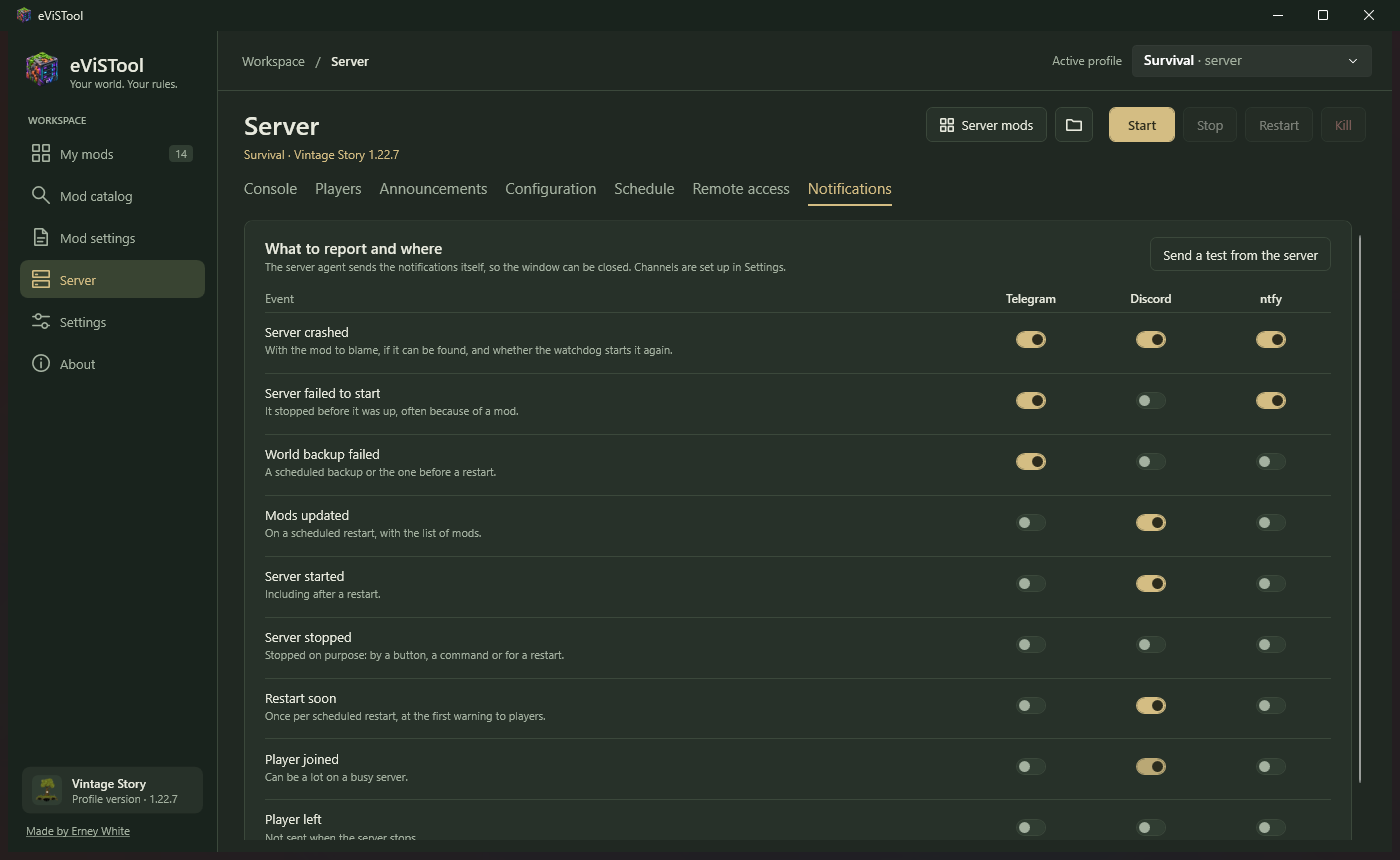
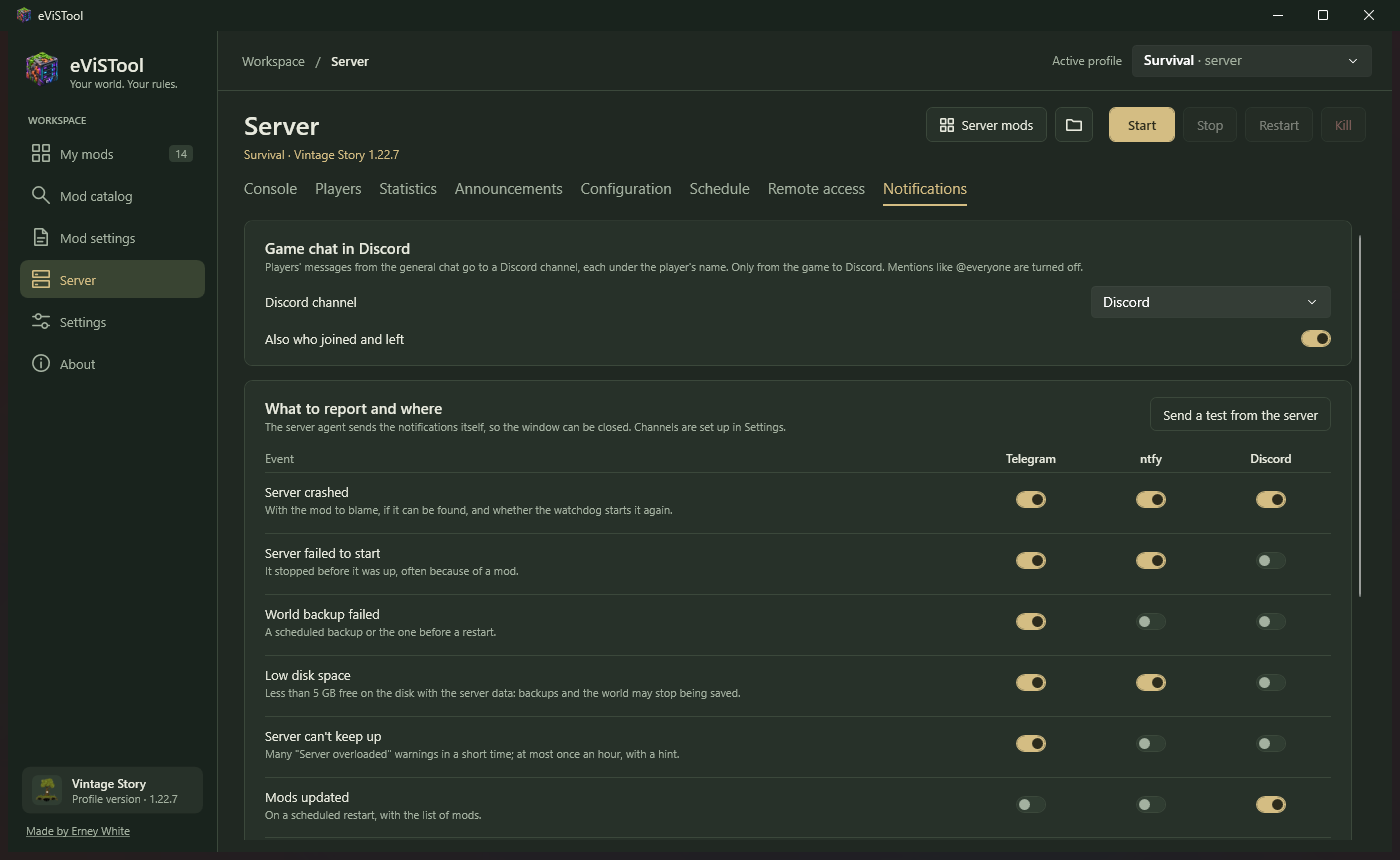
README: чат игры в Discord, новые оповещения, папка для копий, статистика; новые снимки «Статистика», «Оповещения», «Расписание»

diff --git a/README.ru.md b/README.ru.md
@@ -24,7 +24,8 @@
 ![Мои моды](docs/screenshots/mods.png)
 
 eViSTool держит моды Vintage Story в актуальном состоянии, показывает каталог модбазы с установкой в один клик
-и управляет выделенным сервером — консоль, игроки, конфигурация, резервные копии, перезапуски по расписанию — из одного окна.
+и управляет выделенным сервером из одного окна: консоль, игроки, конфигурация, резервные копии, перезапуски по расписанию,
+оповещения и статистика.
 Сервером на другом компьютере можно управлять так же — по одной строке, коду подключения.
 
 Программа портативная: распаковал в любую папку и запустил. В систему ничего не ставится — ни служб, ни автозапуска.
@@ -268,6 +269,11 @@ eViSTool считает их за каждый запуск игры или се
   так что восстановление можно откатить.
   Данные, которые моды хранят рядом с миром, а не в нём (например, `Saves/XLeveling` с прогрессом навыков
   и папка `ModData`), упаковываются в каждую копию и восстанавливаются вместе с миром.
+  Копии можно складывать в другую папку, в том числе сетевую (`\\nas\share`): строка **«Папка для копий»**, кнопка
+  **«Обзор…»** или путь вручную. Сервер по-прежнему пишет копию к себе в `Backups`, а агент переносит её в выбранную папку.
+  Если папка недоступна, копия остаётся на сервере, приходит оповещение, и в следующий раз она переедет вместе с новой.
+  Список, удаление старых копий и восстановление видят обе папки. Сетевую папку агент открывает от имени пользователя Windows,
+  под которым он запущен; можно ли туда писать, проверяется сразу, когда ты её выбираешь.
 - **Перезапуски по расписанию** каждые N часов работы или в заданное время суток, с предупреждениями в чат
   (за 10 и за 5 минут, дальше каждую минуту) и, если нужно, свежей копией мира прямо перед перезапуском.
   Если включить **«Обновлять моды при перезапуске»**, агент, пока сервер остановлен, поставит вышедшие обновления модов.
@@ -288,6 +294,15 @@ eViSTool считает их за каждый запуск игры или се
 найти игрока по имени умеет лишь сервер. С версии 1.20 выделенный сервер по умолчанию пускает только по белому списку,
 так что друзей, скорее всего, придётся туда добавить.
 
+**Статистика.** Включается тумблером **«Собирать статистику»**, по умолчанию выключена. Раз в минуту агент записывает,
+сколько игроков в игре и сколько памяти и процессора занимает сервер, а ещё входы и выходы, запуски и вылеты.
+Хранится 30 дней на компьютере с сервером, это около мегабайта в месяц. Вкладка показывает итоги за сутки, неделю или
+30 дней: сколько наиграли все вместе, пик онлайна, сколько времени работал сервер, вылеты. Ниже графики онлайна
+и нагрузки (наведи мышь, и увидишь точные значения) и таблица игроков: кто сколько наиграл, сколько раз заходил
+и когда был последний раз.
+
+![Статистика](docs/screenshots/stats.png)
+
 **Объявления.** Сообщения в чат по расписанию: правила сервера, ссылка на Discord, время перезапуска. У каждого свой
 интервал в минутах и тумблер. Отправляет агент, так что окно можно закрыть. По умолчанию пустой сервер молчит, а игрок,
 который зашёл, не получит пачку накопившихся сообщений. Есть и **«Сказать сейчас»** — разовое объявление всем на сервере.
@@ -295,10 +310,15 @@ eViSTool считает их за каждый запуск игры или се
 ![Объявления](docs/screenshots/announcements.png)
 
 **Оповещения.** Сервер сам сообщает о событиях туда, куда ты скажешь: упал (с модом-виновником, если его удалось найти,
-и тем, поднимет ли его сторож), не запустился, копия мира не получилась, обновлены моды, запущен или остановлен,
-скоро перезапуск, игрок зашёл или вышел. Каналы настраиваются один раз в **«Настройках» → «Оповещения» → «Добавить канал»**,
+и тем, поднимет ли его сторож), не запустился, копия мира не получилась, обновлены моды, вышли обновления модов,
+мало места на диске, сервер не успевает, запущен или остановлен, скоро перезапуск, игрок зашёл или вышел. Каналы настраиваются один раз в **«Настройках» → «Оповещения» → «Добавить канал»**,
 а на вкладке сервера включаются тумблерами: строки — события, столбцы — каналы. Отправляет агент, окно можно закрыть.
 **«Проверочное с сервера»** уходит тем же путём, что и настоящие оповещения.
+
+Про три события подробнее. Обновления модов агент проверяет раз в сутки и присылает список; один и тот же список
+повторно не приходит. «Мало места» срабатывает, когда на диске с данными сервера остаётся меньше 5 ГБ. «Сервер
+не успевает» значит, что сервер много раз за 10 минут написал `Server overloaded`; в оповещении будет подсказка,
+хватает ли компьютеру памяти.
 
 ![Оповещения](docs/screenshots/notify.png)
 
@@ -320,12 +340,17 @@ eViSTool считает их за каждый запуск игры или се
 Сообщение собрано из частей: цвет по важности (кружок в Telegram, полоса в Discord, приоритет в ntfy), сервер,
 событие и подробности. Пишутся они на языке eViSTool того компьютера, где работает сервер.
 
+**Чат игры в Discord.** Там же, на вкладке «Оповещения», можно выбрать канал Discord для чата. Сообщения игроков
+из общего чата уходят туда, каждое под ником игрока, а несколько сообщений подряд от одного игрока приходят одним.
+По желанию туда же пишется, кто зашёл и вышел. Направление одно: из игры в Discord. Упоминания вроде `@everyone`
+из игры никого в Discord не позовут.
+
 **«Моды сервера»** открывает «Мои моды» серверного профиля — та же таблица, каталог и обновления, что и для игры.
 
 ## Удалённое управление
 
 Управляй сервером на другом компьютере — домашнем ПК, старом ноутбуке, арендованной машине — как будто он рядом:
-консоль, запуск и остановка, конфигурация, расписание, резервные копии, игроки, объявления, оповещения и моды сервера. Одна строка — **код подключения** —
+консоль, запуск и остановка, конфигурация, расписание, резервные копии, игроки, статистика, объявления, оповещения и моды сервера. Одна строка — **код подключения** —
 содержит всё нужное: адрес, порт, ключ и сертификат сервера. Настраивать вручную ничего не надо.
 
 ![Удалённый доступ](docs/screenshots/remote.png)
@@ -349,7 +374,7 @@ eViSTool считает их за каждый запуск игры или се
 - На компьютере с сервером должен быть открыт eViSTool или работать сервер: удалённый доступ живёт, пока жив агент.
   Ни службы, ни автозапуска нет.
 - Изменения видны в обоих окнах сами. Выключил мод со своего ПК — через пару секунд он выключен и в окне на компьютере
-  с сервером, и наоборот. С расписанием, конфигурацией, игроками, объявлениями и оповещениями так же.
+  с сервером, и наоборот. С расписанием, конфигурацией, игроками, статистикой, объявлениями и оповещениями так же.
 - Моды ставятся на сервер прямо по соединению: из zip, из каталога, обновлениями и модпаками.
 - Оповещения отправляет агент на компьютере с сервером, поэтому они приходят и при выключенном твоём ПК. Каналы, которые
   ты включил у сервера, передаются ему по защищённому соединению и там шифруются заново; обратно секреты не отдаются.
@@ -393,7 +418,7 @@ eViSTool считает их за каждый запуск игры или се
 eViSTool использует `%LOCALAPPDATA%\eViSTool`.)
 
 **Что eViSTool меняет:** только папки модов, файлы настроек игры и сервера (рядом остаётся копия прежнего состояния `.evistool.bak`),
-резервные копии в папке `Backups` серверных профилей и папки данных профилей, которые создала сама.
+резервные копии в папке `Backups` серверных профилей (или в выбранной папке для копий) и папки данных профилей, которые создала сама.
 Удалённые моды, копии и папки профилей уходят в корзину.
 
 **Чтобы удалить eViSTool,** останови свои серверы, закрой программу и удали её папку.

diff --git a/README.md b/README.md
@@ -24,7 +24,8 @@
 ![My mods](docs/screenshots/mods.png)
 
 eViSTool keeps your Vintage Story mods up to date, lets you browse and install mods from the ModDB,
-and runs your dedicated server — console, players, configuration, backups and scheduled restarts — from one window.
+and runs your dedicated server from one window: console, players, configuration, backups, scheduled restarts,
+notifications and statistics.
 A server on another computer is managed the same way, with a single connection code.
 
 It is portable: unzip it anywhere and run. Nothing is installed into the system — no services, no autostart.
@@ -264,6 +265,11 @@ so changes can be saved only while it is stopped. A copy of the previous file st
   so a restore can be undone.
   Data that mods keep next to the world rather than in it (for example `Saves/XLeveling` with skill progress,
   and the `ModData` folder) is packed with every backup and restored together with the world.
+  Backups can go to another folder, including a network one (`\\nas\share`): the **Backup folder** row, **Browse…**
+  or a typed path. The server still writes the copy into its own `Backups`, and the agent moves it to the chosen folder.
+  If the folder is unreachable, the copy stays on the server, you get a notification, and next time it moves along with
+  the new one. The list, rotation and restore see both folders. The agent opens a network folder as the Windows user
+  it runs as; write access is checked as soon as you pick the folder.
 - **Scheduled restarts** every N hours of uptime or at set times of day, with chat warnings
   (10 and 5 minutes before, then every minute) and, if you like, a fresh backup right before the restart.
   With **Update mods on restart** on, the agent installs released mod updates while the server is stopped.
@@ -284,6 +290,14 @@ On a stopped server eViSTool edits the server files. A new player can be added b
 only the server can look a player up by name. Since 1.20 a dedicated server lets in only whitelisted players by default,
 so you will most likely need to add your friends there.
 
+**Statistics.** Turned on with the **Collect statistics** switch, off by default. Once a minute the agent records how many
+players are online and how much memory and CPU the server uses, plus joins and leaves, starts and crashes. It is kept for
+30 days on the server computer, about a megabyte a month. The tab shows totals for a day, a week or 30 days: time played
+by everyone, peak online, how long the server was running, crashes. Below are charts of online players and server load
+(hover to see exact values) and a players table: how long each played, how many sessions, and when they were last seen.
+
+![Statistics](docs/screenshots/stats.png)
+
 **Announcements.** Chat messages on a schedule: server rules, a Discord link, the restart time. Each has its own interval
 in minutes and a switch. The agent sends them, so the window can be closed. By default an empty server stays quiet, and a player
 who joins does not get a pile of queued messages. There is also **Say now** — a one-off message to everyone on the server.
@@ -291,10 +305,15 @@ who joins does not get a pile of queued messages. There is also **Say now** — 
 ![Announcements](docs/screenshots/announcements.png)
 
 **Notifications.** The server reports events wherever you tell it to: crashed (with the mod to blame, if one is found, and
-whether the watchdog starts it again), failed to start, world backup failed, mods updated, started or stopped, restart soon,
-player joined or left. Channels are set up once in **Settings → Notifications → Add channel**, and on the server tab you turn
+whether the watchdog starts it again), failed to start, world backup failed, mods updated, mod updates available,
+low disk space, server can't keep up, started or stopped, restart soon, player joined or left. Channels are set up once in **Settings → Notifications → Add channel**, and on the server tab you turn
 them on with switches: rows are events, columns are channels. The agent sends them, so the window can be closed.
 **Send a test from the server** goes the same way as the real notifications.
+
+A few events in more detail. The agent checks for mod updates once a day and sends the list; the same list is not sent
+twice. Low disk space fires when less than 5 GB is left on the disk with the server data. Server can't keep up means
+the server wrote `Server overloaded` many times within 10 minutes; the notification says whether the computer is short
+of memory.
 
 ![Notifications](docs/screenshots/notify.png)
 
@@ -315,12 +334,17 @@ Tokens and webhook links are stored encrypted for your Windows account and are n
 a color by importance (a circle in Telegram, a stripe in Discord, priority in ntfy), the server, the event and the details.
 They are written in the language of eViSTool on the computer that runs the server.
 
+**Game chat in Discord.** On the same Notifications tab you can pick a Discord channel for the chat. Players' messages
+from the general chat go there, each under the player's name, and several messages in a row from one player arrive as one.
+Optionally, joins and leaves go there too. It works one way only, from the game to Discord. Mentions like `@everyone`
+typed in the game do not ping anyone in Discord.
+
 **Server mods** opens **My mods** for the server profile — the same table, catalog and updates as for the game.
 
 ## Remote management
 
 Manage a server on another computer — a home PC, a spare laptop, a rented machine — as if it were here:
-console, start and stop, configuration, schedule, backups, players, announcements, notifications and the server's mods. One string, the **connection code**,
+console, start and stop, configuration, schedule, backups, players, statistics, announcements, notifications and the server's mods. One string, the **connection code**,
 carries everything needed: address, port, key and the server's certificate. There is nothing to configure by hand.
 
 ![Remote access](docs/screenshots/remote.png)
@@ -344,7 +368,7 @@ Good to know:
 - The server computer needs eViSTool open, or its server running: remote access lives as long as the agent does.
   There is no service and no autostart.
 - Changes show up in both windows by themselves. A mod disabled from your PC appears disabled on the server computer
-  within seconds, and the other way round. The same goes for the schedule, configuration, players, announcements and notifications.
+  within seconds, and the other way round. The same goes for the schedule, configuration, players, statistics, announcements and notifications.
 - Mods are installed on the server over the connection: from a zip, from the catalog, as updates and from modpacks.
 - Notifications are sent by the agent on the server computer, so they arrive even when your PC is off. The channels you turn on
   for the server are passed to it over the secure connection and encrypted again there; secrets are never sent back.
@@ -388,7 +412,7 @@ Move the program folder, and everything moves with it. (If eViSTool cannot write
 it uses `%LOCALAPPDATA%\eViSTool` instead.)
 
 **What eViSTool changes:** only mod folders, the game and server settings files (keeping a `.evistool.bak` copy of the previous state),
-backups in the `Backups` folder of server profiles, and the data folders of profiles it created.
+backups in the `Backups` folder of server profiles (or in the chosen backup folder), and the data folders of profiles it created.
 Deleted mods, backups and profile folders go to the Recycle Bin.
 
 **To uninstall,** stop your servers, close eViSTool and delete its folder.
